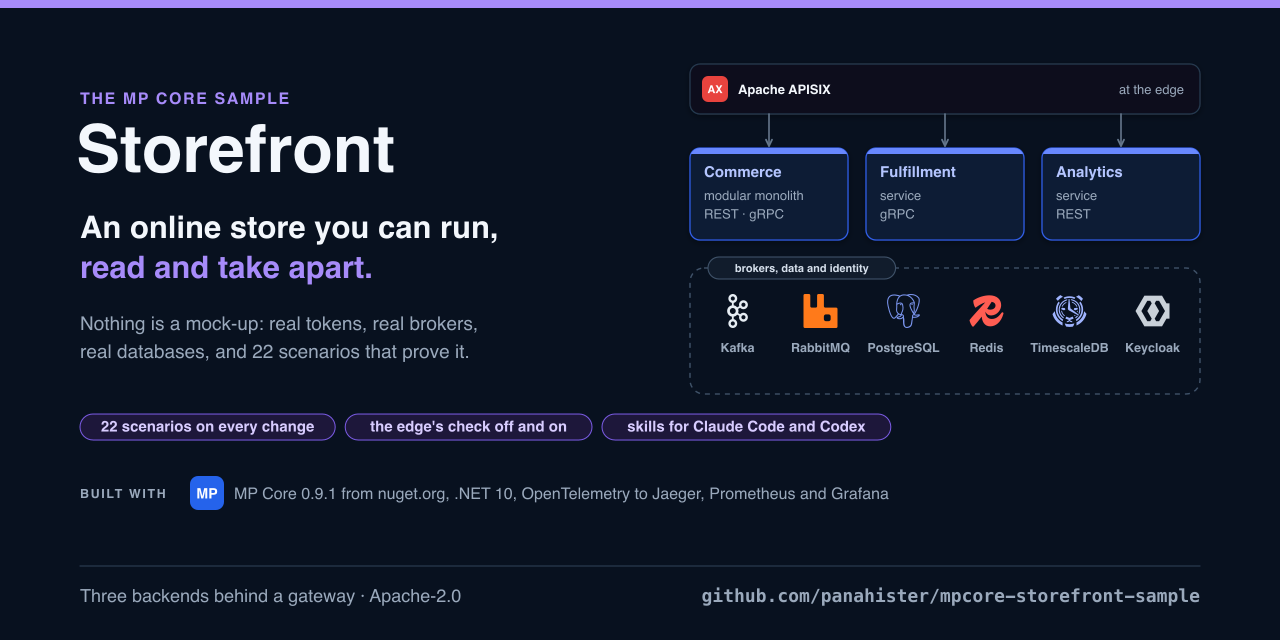
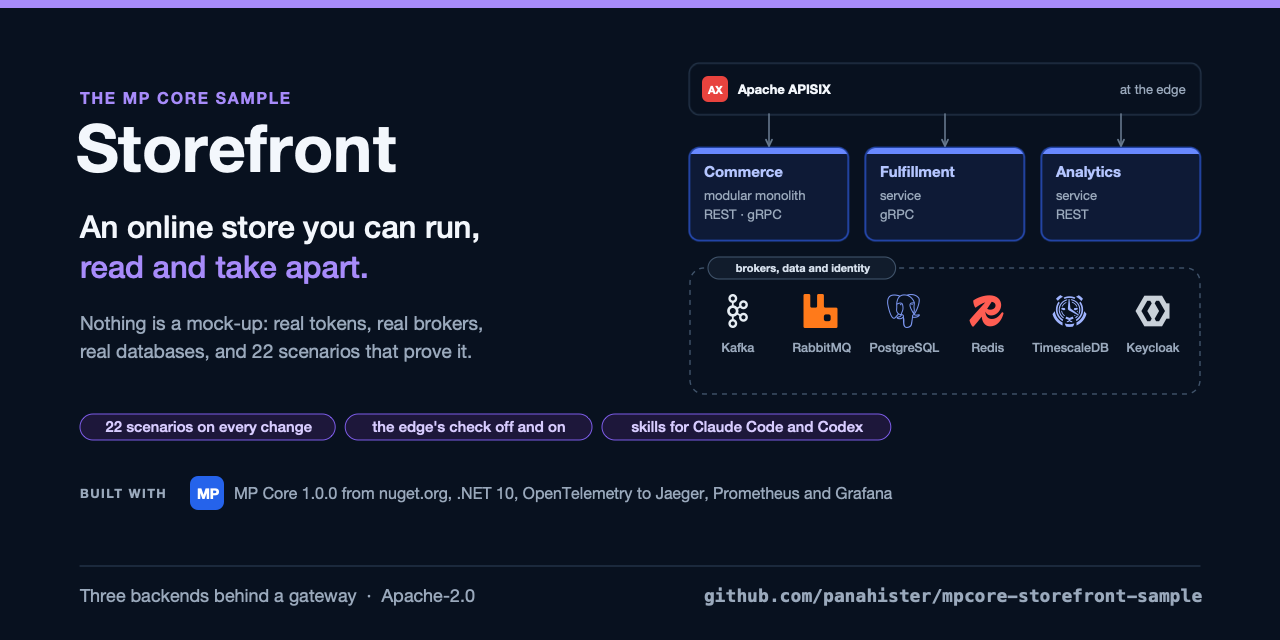
Build with MP Core 1.0.0
Every backend and the contract tests pin MP Core 1.0.0, the first version with
a compatibility promise, in place of 0.9.1. The source is unchanged: built
against the 1.0.0 packages from nuget.org with an empty package cache, the
three solutions and the contract tests compile with 0 warnings and 0 errors,
and all 290 tests pass (Commerce 241, Fulfillment 19, Analytics 22,
Contracts 8).

The documents say 1.0.0 wherever they named 0.9.1: README, the variations and
the running guide. The code count is redone by the README's own rule (C#
lines neither blank, nor a comment, nor a brace alone; migrations, bin and
obj left out), which reproduces the old figures of 0.9.1 exactly (4,970 and
6,747): MP Core 1.0.0 has 6,482 lines in the src of its 28 runtime packages
and 12,481 lines of tests, 845 tests; Storefront's business is still 2,753.
The picture that compares them is drawn again from scripts/diagrams, and the
social image says 1.0.0.

diff --git a/scripts/diagrams/storefront.py b/scripts/diagrams/storefront.py
@@ -201,10 +201,10 @@ def why(d):
     d.rect(x0, y, total, 88, d.t["canvas"], d.t["frame"], r=10, sw=1)
     d.text(x0 + 16, y + 26, "The code, counted", size=13, weight=700)
     d.text(x0 + 16, y + 44, "lines of C#, without comments and braces", size=10.5, fill=d.t["muted"])
-    scale = (total - 260) / 4970
+    scale = (total - 260) / 6482
     bx = x0 + 240
     for k, (color, label, n) in enumerate([("green", "Storefront's business: Domain and Application", 2753),
-                                           ("blue", "MP Core's 28 packages, with 460 tests of their own", 4970)]):
+                                           ("blue", "MP Core 1.0.0: 28 packages, with 845 tests of their own", 6482)]):
         by = y + 18 + k * 32
         d.rect(bx, by, n * scale, 24, d.fill(color), d.stroke(color), r=6, sw=1)
         d.text(bx + 10, by + 16.5, f"{n:,}  ·  {label}", size=11, weight=600, fill=d.ink(color))

diff --git a/README.md b/README.md
@@ -108,7 +108,7 @@ decision, a name. What makes it safe is MP Core's, and it is the same in all thr
 
 <picture>
   <source media="(prefers-color-scheme: dark)" srcset="docs/images/why-mpcore-dark.svg">
-  <img alt="Nine guarantees the shop needs. For each, what a team builds and proves without MP Core, the line Storefront wrote with MP Core, and the scenario that proves it; and the code counted: 2,753 lines of Storefront business against 4,970 lines in MP Core's 28 packages" src="docs/images/why-mpcore-light.svg" width="100%">
+  <img alt="Nine guarantees the shop needs. For each, what a team builds and proves without MP Core, the line Storefront wrote with MP Core, and the scenario that proves it; and the code counted: 2,753 lines of Storefront business against 6,482 lines in MP Core 1.0.0's 28 packages" src="docs/images/why-mpcore-light.svg" width="100%">
 </picture>
 
 A shop is judged on its bad days, and the guarantees for those days are the same in every shop: a checkout
@@ -123,8 +123,8 @@ names.
 
 **How the code was counted.** Lines of C# that are neither blank, nor comments, nor a brace alone;
 migrations, `bin` and `obj` left out. Storefront: the `Domain` and `Application` projects and folders of the
-three backends. MP Core: the `src` of its 28 runtime packages at `0.9.1`; its tests are another 6,747
-lines, 460 tests, run against PostgreSQL, TimescaleDB and Redis. A count of lines says how much there is,
+three backends. MP Core: the `src` of its 28 runtime packages at `1.0.0`; its tests are another 12,481
+lines, 845 tests, run against PostgreSQL, TimescaleDB, Redis, RabbitMQ and Kafka. A count of lines says how much there is,
 not what it guarantees; what it guarantees is in the column of scenarios.
 
 ### What the sample's code does, and what MP Core does
@@ -230,13 +230,13 @@ The tests and the scenarios run on GitHub on every change to this repository.
 [docs/lessons.md](docs/lessons.md) lists what they found: defects in MP Core, which were fixed in MP Core,
 and mistakes in this sample's own design, which are the ones a team is most likely to repeat.
 
-For the current publication candidate, a 2026-10-08 Release build against MP Core packages completed
-with zero warnings and zero errors; all 290 tests passed (Commerce 241, Fulfillment 19, Analytics 22,
+On 2026-10-14, a Release build against the MP Core 1.0.0 packages from nuget.org, with an empty package cache,
+completed with zero warnings and zero errors; all 290 tests passed (Commerce 241, Fulfillment 19, Analytics 22,
 Contracts 8). See [the running guide](docs/running.md) for the reproducible command and scope.
 
 ## Where MP Core comes from
 
-From nuget.org, version `0.9.1`. When a clone of MP Core sits next to this repository (`../mpcore`), the
+From nuget.org, version `1.0.0`. When a clone of MP Core sits next to this repository (`../mpcore`), the
 backends build against its source instead: a breakpoint in framework code works, and a change there is
 picked up by the next build. [`Directory.Build.targets`](Directory.Build.targets) decides, and says so in
 the build output. To choose for one build:

diff --git a/docs/running.md b/docs/running.md
@@ -151,8 +151,8 @@ whole-platform Arabic coverage.
 
 Run `dotnet test commerce/Storefront.Commerce.Backend.sln --configuration Release -p:MPCoreSource=NuGet`
 to verify the standalone package-based sample, rather than implicitly selecting a sibling MP Core clone.
-The 2026-10-08 publication run passed Commerce 241, Fulfillment 19, Analytics 22 and Contracts 8
-(290 total), with zero build warnings and zero build errors. Run each service's solution and the root
+The 2026-10-14 run against MP Core 1.0.0 from nuget.org, with an empty package cache, passed Commerce 241,
+Fulfillment 19, Analytics 22 and Contracts 8 (290 total), with zero build warnings and zero build errors. Run each service's solution and the root
 contract project with the same Release/NuGet arguments. The missing-Arabic regressions were first seen
 failing. This is local evidence, not remote CI or full production acceptance.
 

diff --git a/docs/variations.md b/docs/variations.md
@@ -68,7 +68,7 @@ decision is ADR-007: a gateway that validates is one more wall, never a replacem
 
 | Value | MP Core is |
 |---|---|
-| `NuGet` | the packages from nuget.org, version `0.9.1` |
+| `NuGet` | the packages from nuget.org, version `1.0.0` |
 | `Local` | the source of a clone at `../mpcore`: a breakpoint in the framework works, and a change there is picked up by the next build |
 
 ```bash
